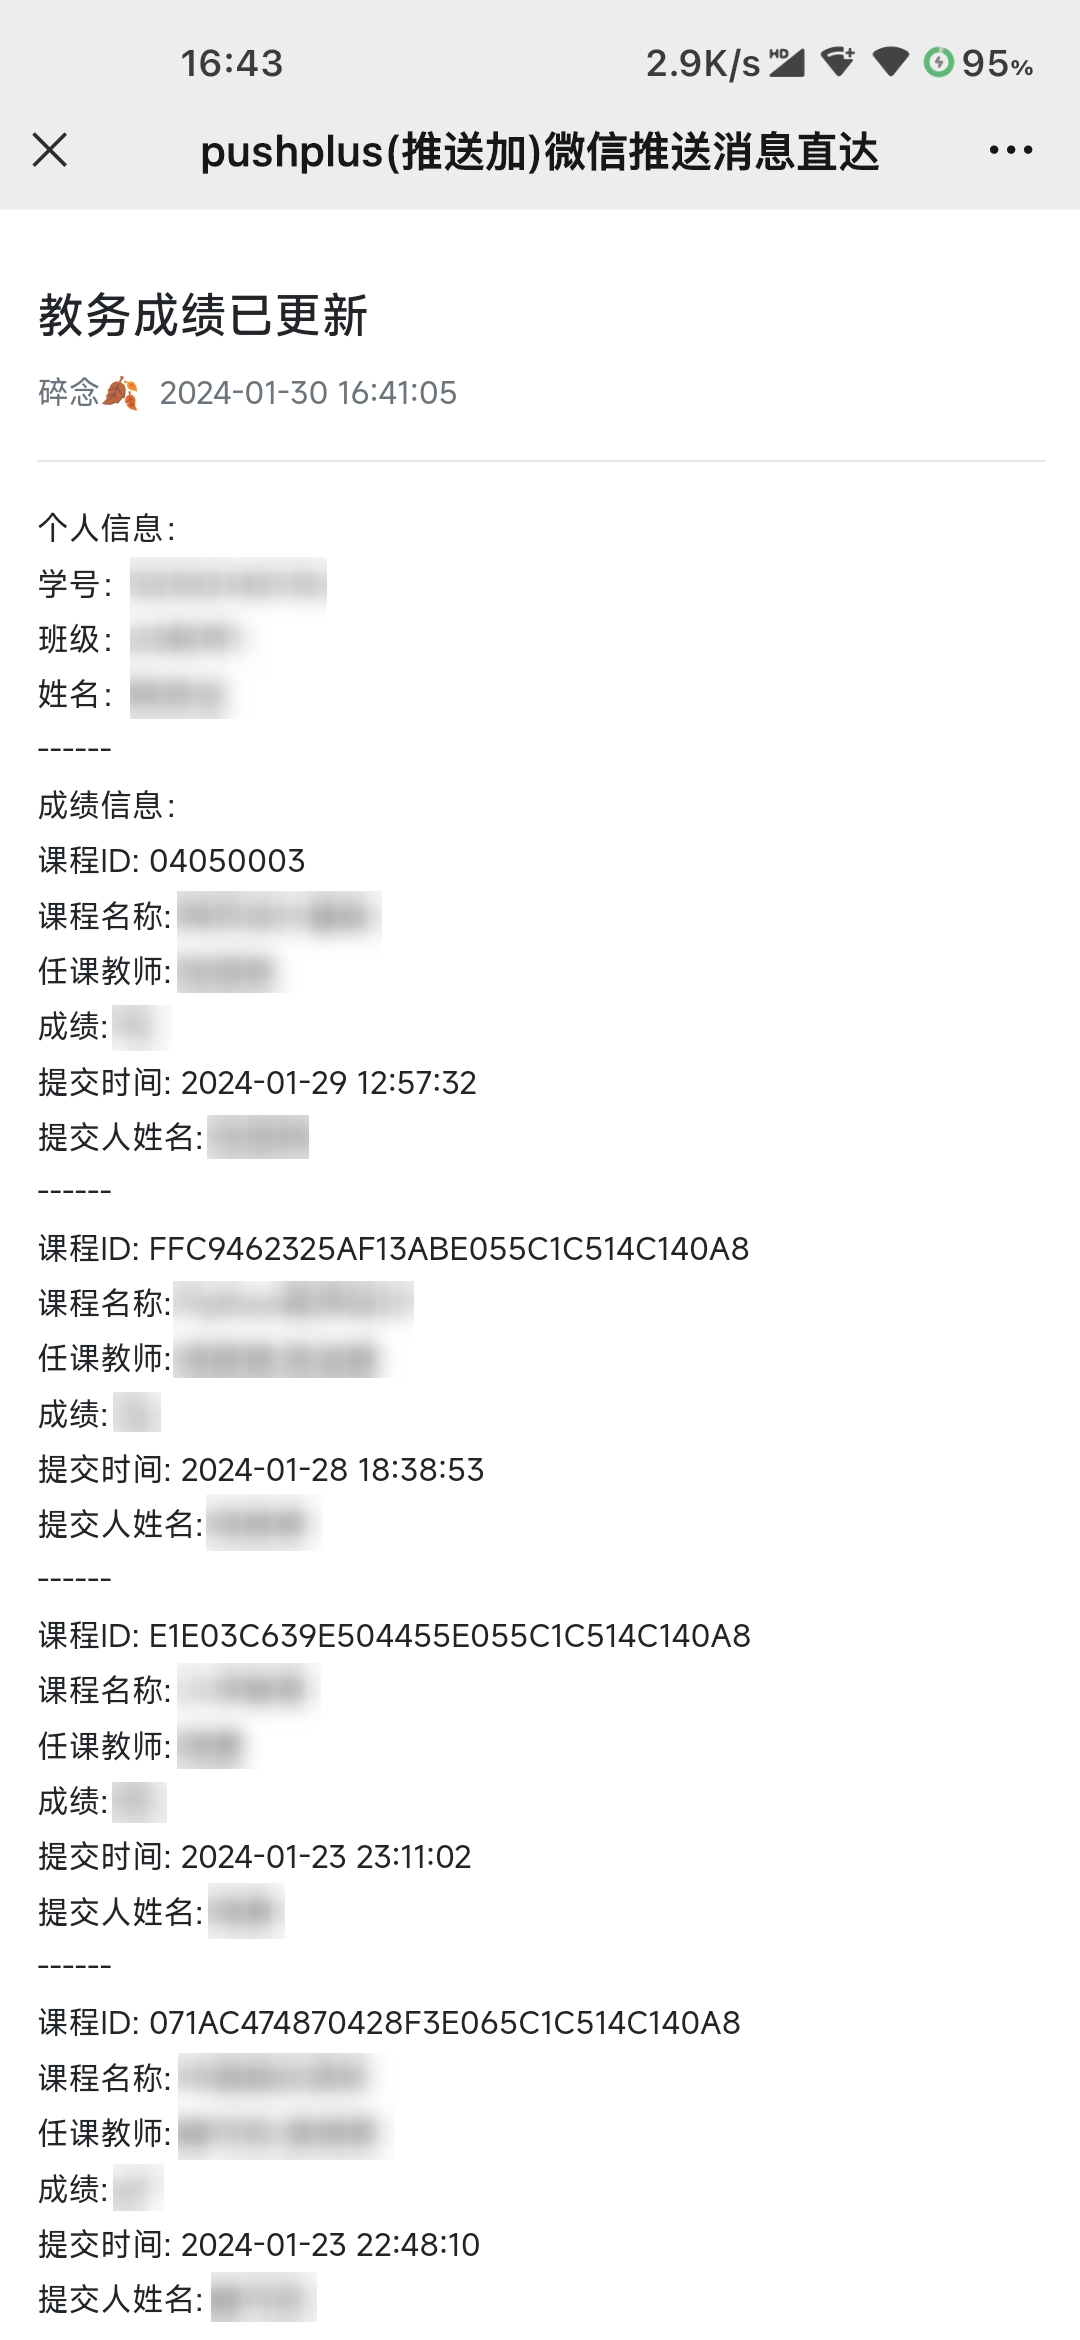
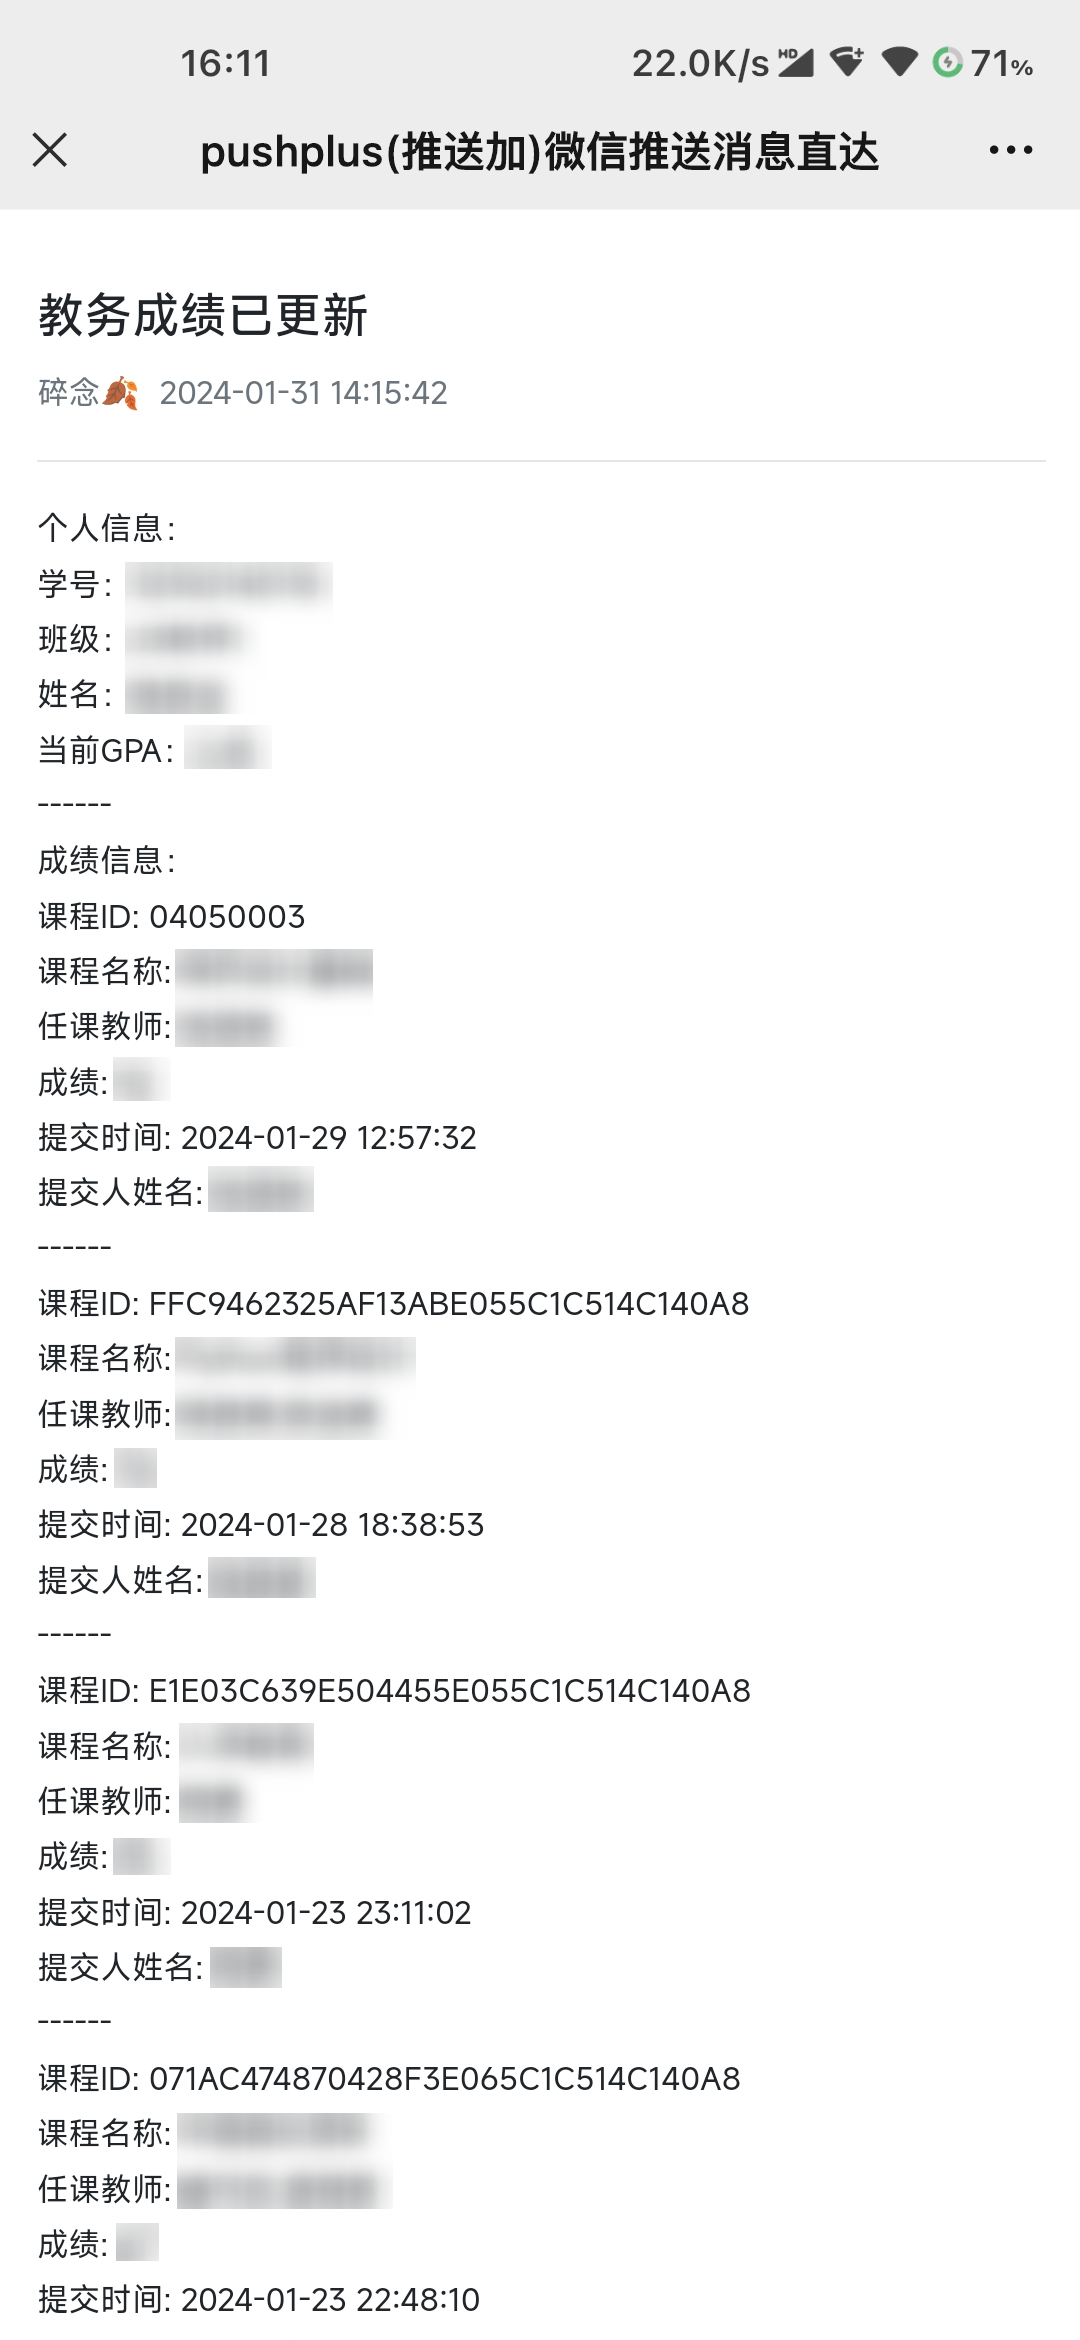
Add

diff --git a/README.md b/README.md
@@ -27,7 +27,7 @@
    1. 显示成绩提交时间，即成绩何时被录入教务系统。
    2. 显示成绩提交人姓名，即成绩由谁录入进教务系统。
    3. 成绩信息按时间降序排序，确保最新的成绩始终在最上方，提升用户查阅效率。
-   4. 计算 GPA
+   4. 计算 `GPA`
 
 ## 使用方法
 
